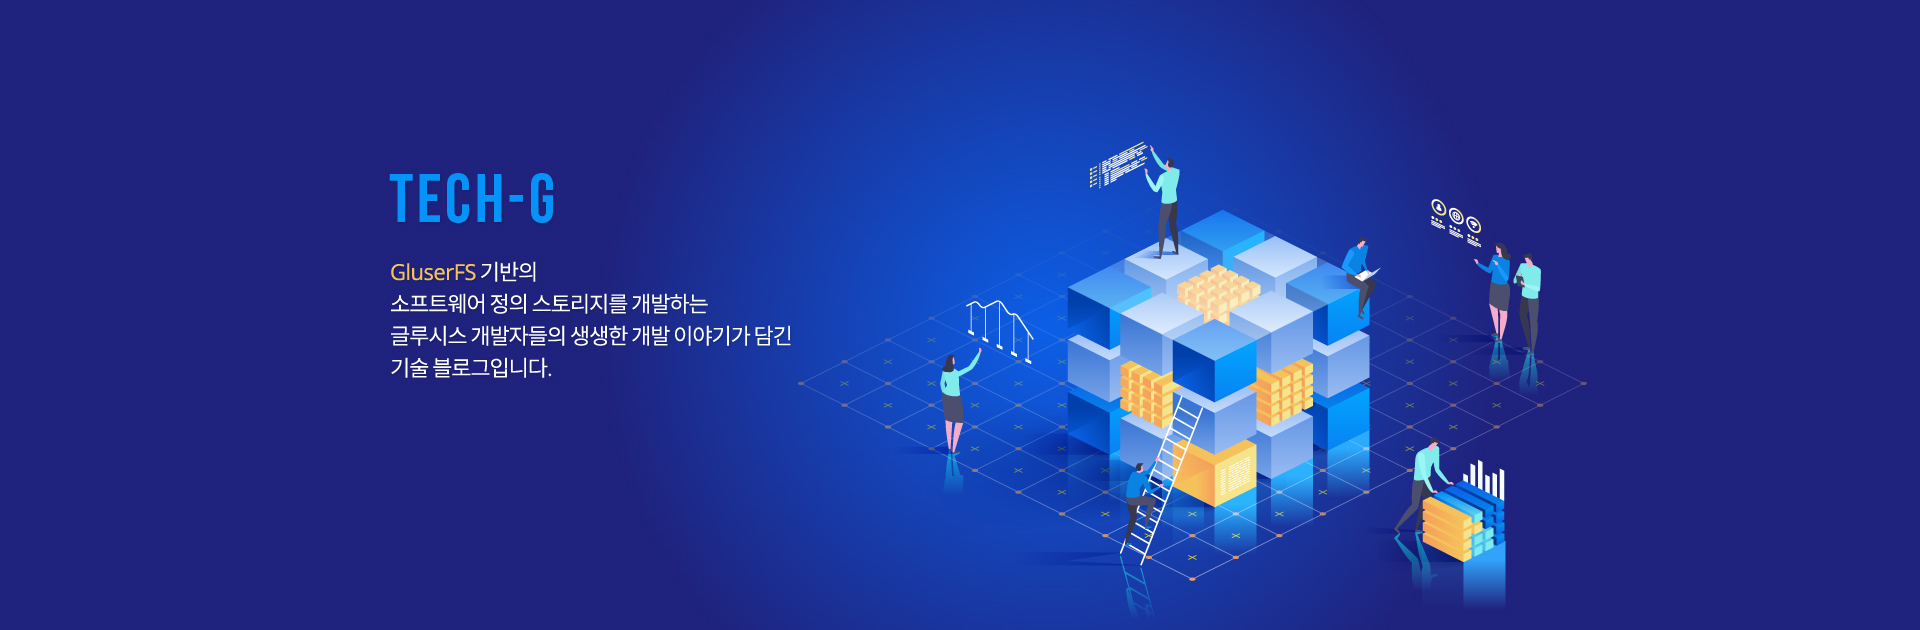
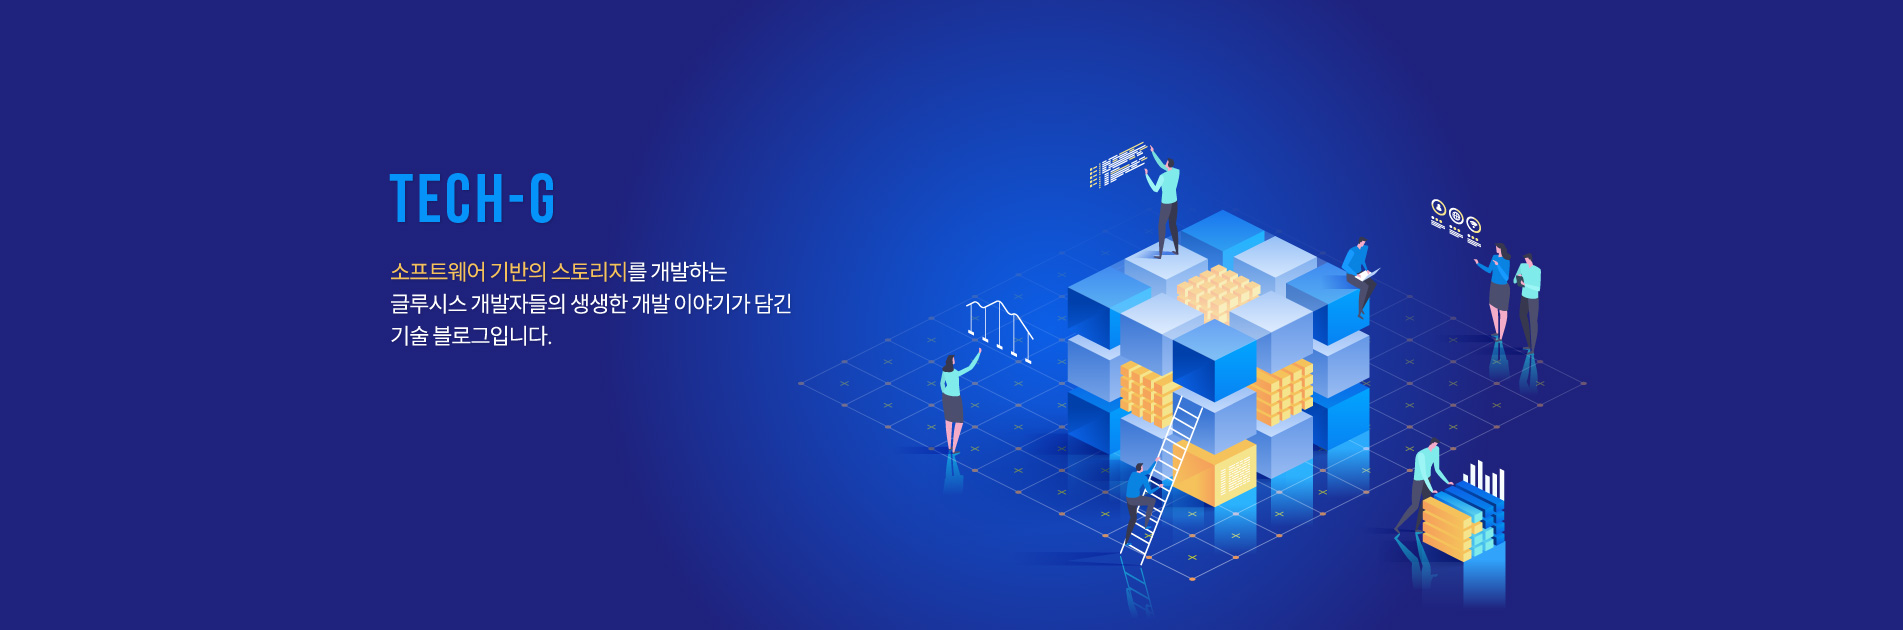
tech modify

Changed region(s): [[0.4341, 0.2111, 0.8371, 0.9651], [0.186, 0.3921, 0.403, 0.6032], [0.186, 0.2714, 0.31, 0.3619]]

diff --git a/index.html b/index.html
@@ -48,9 +48,21 @@ layout: main
 	<div class="sub-title-out">
 		<div class="sub-title-in">
 			<div style="display: inline-block;width:380px;text-align: center;">
+				<div><img src="/assets/img_info.png"></div>
+				<div class="sub-title-menu-conetnt">
+					<div class="sub-title">지식 공유</div>
+					<div>스토리지에 대한 기본 개념,</div>
+					<div>기술에 대한 다양한 정보와 지식을</div>
+					<div>공유합니다.</div>
+				</div>
+				<div>
+					<div class="sub-title-menu-button" onclick="location.href='/blog'">바로가기</div>
+				</div>
+			</div>
+			<div style="display: inline-block;width:380px;text-align: center;">
 				<div><img src="/assets/img_issue.png"></div>
 				<div class="sub-title-menu-conetnt">
-					<div class="sub-title">이슈사례</div>
+					<div class="sub-title">이슈 사례</div>
 					<div>스토리지 기술 개발 및 구축 사례,</div>
 					<div>트러블 슈팅 과정에서 얻은 기술과</div>
 					<div>노하우를 아낌없이 공유합니다.</div>
@@ -70,19 +82,7 @@ layout: main
 				<div>
 					<div class="sub-title-menu-button" onclick="location.href='/blog'">바로가기</div>
 				</div>			
-			</div>
-			<div style="display: inline-block;width:380px;text-align: center;">
-				<div><img src="/assets/img_info.png"></div>
-				<div class="sub-title-menu-conetnt">
-					<div class="sub-title">지식 공유</div>
-					<div>글러스터FS와 기타 스토리지 관련</div>
-					<div>기술에 대한 다양한 정보와 지식을</div>
-					<div>공유합니다.</div>
-				</div>
-				<div>
-					<div class="sub-title-menu-button" onclick="location.href='/blog'">바로가기</div>
-				</div>
-			</div>
+			</div>	
 
 		</div>
 	</div>
